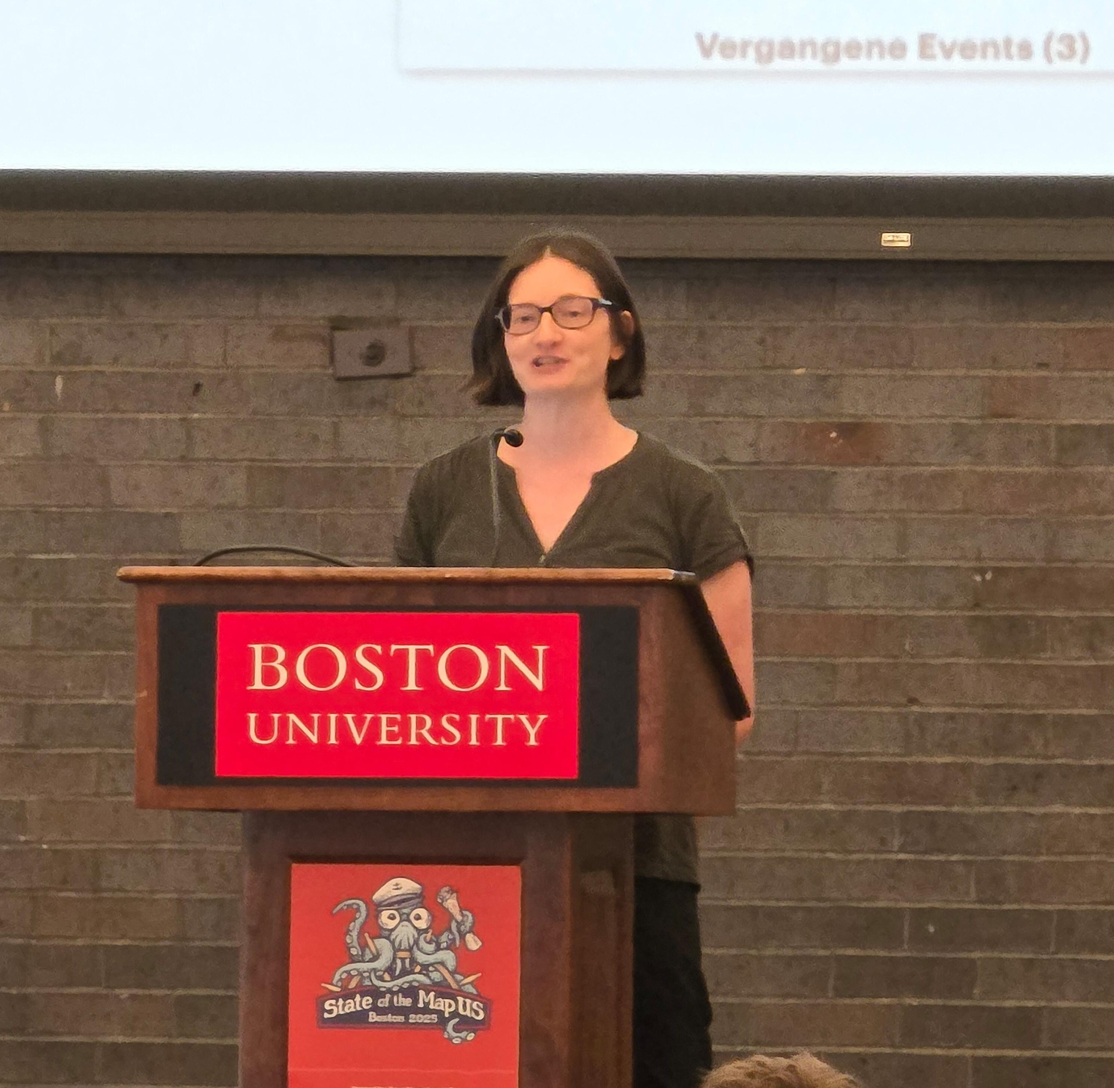
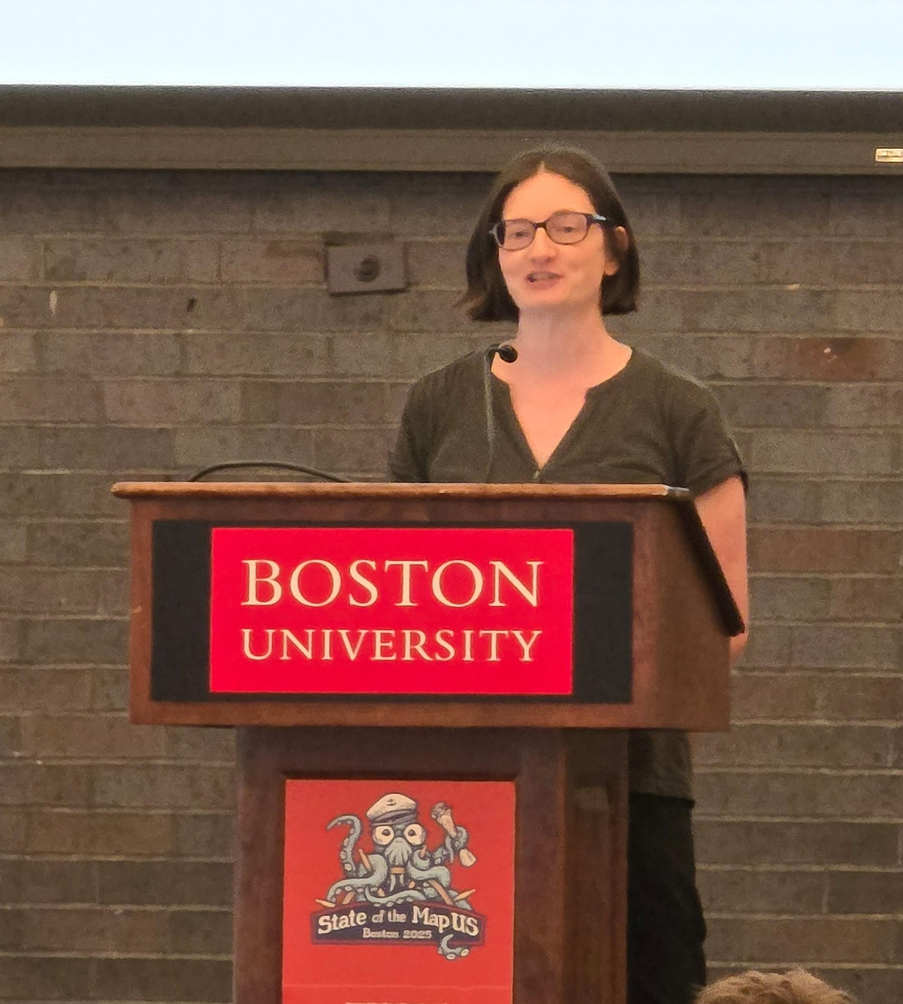
Updated feature image for sSoTM talk and added podcast tag to wig

diff --git a/content/projects/wig-radio/index.md b/content/projects/wig-radio/index.md
@@ -4,7 +4,7 @@ description: "A podcast about being a women in the geospatial industry"
 layout: "single"
 draft: false
 date: 2024-07-02
-tags: ["Programming", "Fun"]
+tags: ["Programming", "Fun", "Podcasts"]
 coverCaption: "Photo by Ritupon Baishya on Unsplash"
 coverAlt: "A picture of a microphone with WiG radio written on top of it"
 featureAlt: "A picture of a microphone with WiG radio written on top of it"
